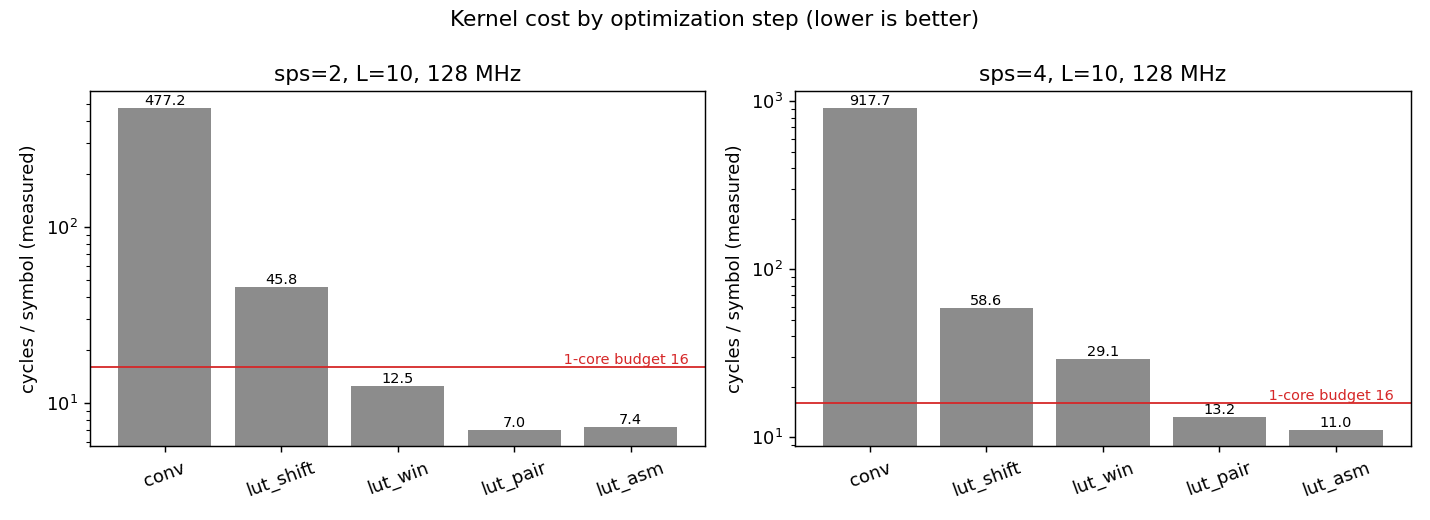
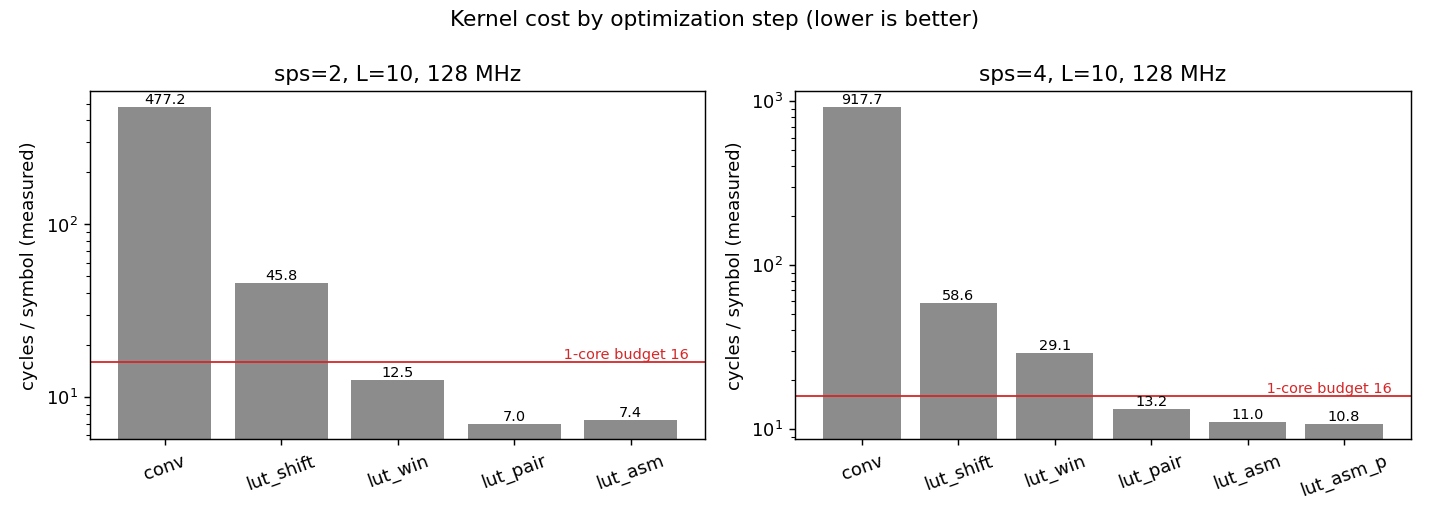
Add software-pipelined N=4 kernel (10.8 cyc/sym)

diff --git a/firmware/src/iqgen.c b/firmware/src/iqgen.c
@@ -163,6 +163,8 @@ static inline __attribute__((always_inline)) void lut_pair(
 _Static_assert(offsetof(iq_cfg_t, ti) == 12 && offsetof(iq_cfg_t, tq) == 16, "iqasm.S CFG_TI/TQ");
 void k_asm8_8(uint32_t *, const uint32_t *, uint32_t, uint32_t, const iq_cfg_t *);
 void k_asm8_10(uint32_t *, const uint32_t *, uint32_t, uint32_t, const iq_cfg_t *);
+void k_asm4p_10(uint32_t *, const uint32_t *, uint32_t, uint32_t, const iq_cfg_t *);
+void k_asm4p_12(uint32_t *, const uint32_t *, uint32_t, uint32_t, const iq_cfg_t *);
 
 #define LUT_ASM(S, LL, PLACE)                                                              \
     static void PLACE(k_asm_##S##_##LL)(uint32_t *o, const uint32_t *in, uint32_t n,       \
@@ -185,12 +187,13 @@ void k_asm8_10(uint32_t *, const uint32_t *, uint32_t, uint32_t, const iq_cfg_t 
         }                                                                                  \
     }
 LUT_ASM(2, 8, IQ_HOT) LUT_ASM(2, 10, IQ_HOT) LUT_ASM(2, 12, IQ_HOT)
-LUT_ASM(4, 8, IQ_HOT) LUT_ASM(4, 10, IQ_HOT_X) LUT_ASM(4, 12, IQ_HOT_X)
+LUT_ASM(4, 8, IQ_HOT) LUT_ASM(4, 10, IQ_HOT_X) LUT_ASM(4, 12, IQ_HOT)
 #define ASM_KERNELS                                                                        \
     {"lut_asm", 2, 8, 1, k_asm_2_8},   {"lut_asm", 2, 10, 1, k_asm_2_10},                    \
     {"lut_asm", 2, 12, 1, k_asm_2_12}, {"lut_asm", 4, 8, 1, k_asm_4_8},                      \
     {"lut_asm", 4, 10, 1, k_asm_4_10}, {"lut_asm", 4, 12, 1, k_asm_4_12},                    \
-    {"lut_asm", 8, 8, 1, k_asm8_8},    {"lut_asm", 8, 10, 1, k_asm8_10},
+    {"lut_asm", 8, 8, 1, k_asm8_8},    {"lut_asm", 8, 10, 1, k_asm8_10},                     \
+    {"lut_asm_p", 4, 10, 1, k_asm4p_10}, {"lut_asm_p", 4, 12, 1, k_asm4p_12},
 #else
 #define ASM_KERNELS
 #endif

diff --git a/README.md b/README.md
@@ -35,6 +35,7 @@ Optimization steps at N = 4, L = 10, all bit-exact (`results/plots/progress_kern
 | v3 `lut_pair`: PIO does the I/Q interleave | 13.8 | CPU stores table words unmodified |
 | v4 `lut_asm`: hand-written Thumb-2 | 11.55 | 8 instructions/symbol; predicted 11.5 |
 | v4 + placement: tables SRAM4–7, ring SRAM0–3, code SRAM8 | 11.05 kernel; stream busy 73.3 → 69.2 % | bank collisions with DMA removed |
+| v5 `lut_asm_p`: software-pipelined `.S` | **10.80**; stream busy 67.8 % | next UBFX hides load-use stall; floor ≈ 10 |
 
 Every run is appended to `results/optimization-log.jsonl` (git revision, clock, parameters,
 verification). `make plots` regenerates the figures.
@@ -102,4 +103,4 @@ hardware/    dev-board requirements draft and gates
 2. Real input: a Pi 5/CM5 RP1-PIO or SPI master into GPIO17–22, with external pulls (E9 on A2).
 3. Logic analyzer on GPIO0–16 at 64 MW/s: setup/hold, skew, CLK_IO duty.
 4. AFE7071 breakout with a locked DACCLK and an external LO: spectrum, images, QMC calibration.
-5. Kernel v5: software pipelining and 2-word unrolling (predicted floor ≈ 10 cycles/symbol).
+5. Kernel: 2-word unrolling would remove about half the remaining 0.8 cycles/symbol of loop overhead (≈ 4 %).
